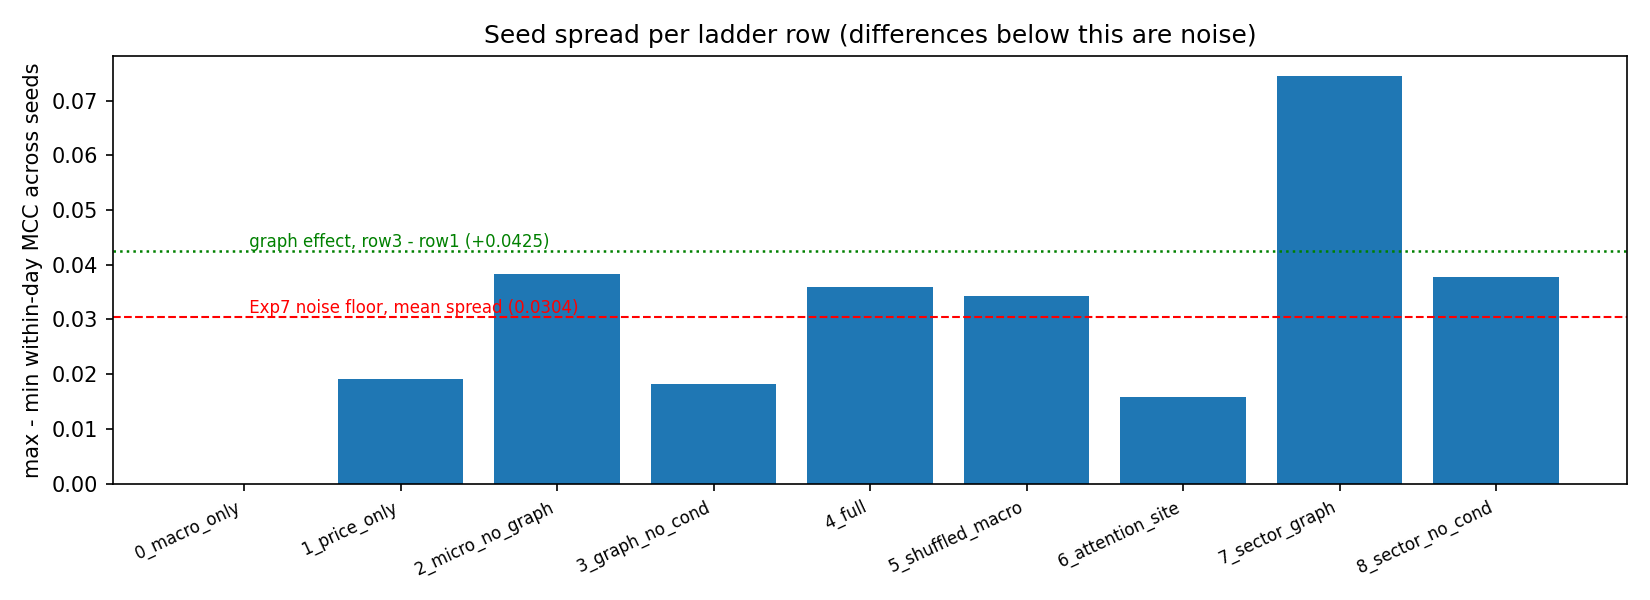
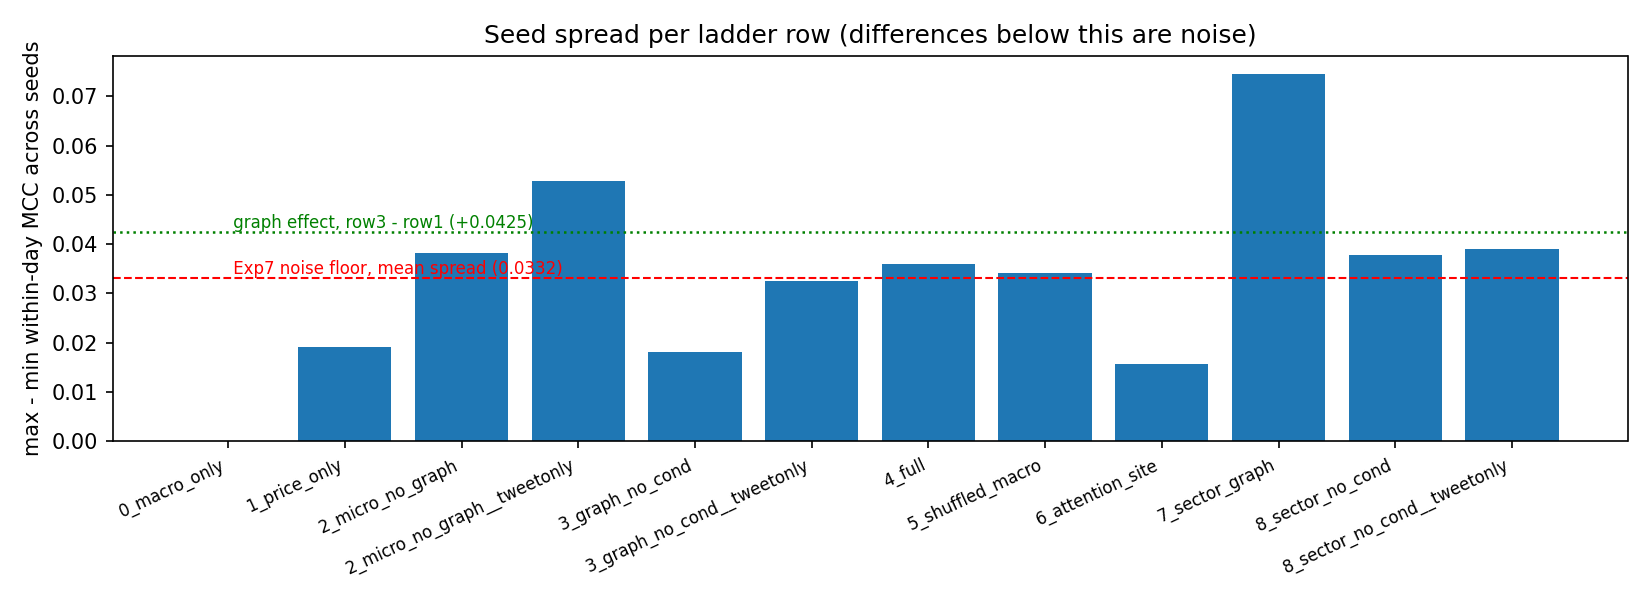
Rewrite the Experiment 7 write-up: the graph finding does not survive its control
The v2 headline (+0.0425 within-day MCC, Bonferroni-corrected, AUC-corroborated,
5/5 seeds, above the noise floor) is withdrawn. The tweet-only ablation shows the
graph's contribution was carried entirely by the news channel, which is windowed
to day t's 09:30 open while the label is close-to-close -- so it partly overlaps
the label in time rather than preceding it.

  graph vs the same text features, no graph, within-day MCC
    with news     tweet +0.0305 (p=0.010)   sector +0.0219 (p=0.053)
    news removed  tweet -0.0032 (p=0.787)   sector +0.0051 (p=0.672)
    pooled        +0.0262                   +0.0010 (p=0.930)

The competing reading -- that zeroing 768 of 1536 dims simply broke the model --
is ruled out by an asymmetry already in the data: row 2, which has no graph, went
UP under the identical removal (+0.0131 -> +0.0243). The removal did not degrade
the text pathway; it removed what the graph was propagating.

Rewritten: sec 1 (three negative claims, not a split verdict), sec 7.3 (the
ablation as the main result), 7.4/7.5 renumbered, 7.6 (scale), sec 8 (the
overnight-gap overlap is now a measured result, not an unrun caveat, with an
explicit statement that this is a property of pairing pre-open text with a
close-to-close label rather than an implementation leak), sec 9.1-9.2
(no surviving positive finding; the tweet-only rows are a post-hoc control
outside the declared family), sec 10, and a new sec 11 postscript.
[…]

diff --git a/results/experiment7_macro_conditioned/EXPERIMENT7_MACRO_CONDITIONED.md b/results/experiment7_macro_conditioned/EXPERIMENT7_MACRO_CONDITIONED.md
@@ -1,9 +1,13 @@
 # Experiment 7 — Macro-Conditioned Micro Signal over a Tweet Graph
 
-**Status:** Complete. 45/45 ladder cells trained (9 rows × 5 seeds).
-**Run:** local CPU (PyTorch 2.11.0+cpu, no GPU), `scripts/run_experiment7_ladder.py`.
-**Raw results:** `results.csv` (45 rows) + one `metrics.json` per run.
-**Analysis:** `scripts/analyze_experiment7.py` regenerates every derived number below.
+**Status:** Complete. 60 cells trained — the 9-row ladder × 5 seeds (45), plus a
+15-cell tweet-only ablation (rows 2/3/8 with the news channel zeroed) that
+**overturned the ladder's headline result**. Read §7.3 before citing anything.
+**Run:** local CPU (PyTorch 2.11.0+cpu, no GPU), `scripts/run_experiment7_ladder.py`
+(add `--zero-news` for the ablation).
+**Raw results:** `results.csv` (60 rows) + one `metrics.json` per run.
+**Analysis:** `scripts/analyze_experiment7.py` and
+`scripts/analyze_tweetonly_ablation.py` regenerate every derived number below.
 **Spec:** `docs/superpowers/specs/2026-09-08-event-conditioned-tweet-graph-design.md`
 **Superseded measurement:** `v1_lookback5/` — see §6, which documents the protocol
 change and reports both versions rather than replacing one with the other.
@@ -26,14 +30,36 @@ The question: does a graph built from what people say, whose per-ticker signal
 is read in light of what is happening to the market, carry signal that sector
 cliques and price correlation do not?
 
-**The answer splits.** Putting text on the nodes and running a graph over it
-produces the first effect in this project that clears its own noise floor:
-+0.0425 within-day MCC over price-only, p < 0.0001, surviving Bonferroni
-correction, corroborated by AUC, positive on all five seeds. **Macro
-conditioning contributes nothing** — it is statistically indistinguishable from
-conditioning on *shuffled* macro vectors (+0.0002, p = 0.987). And the claim
-that the *tweet-learned* graph specifically beats sector cliques is **not
-supported** at this sample size (§7.3).
+**The answer is no, and the most useful result here is *why*.**
+
+The graph initially looked like it worked: +0.0425 within-day MCC over
+price-only, p < 0.0001, surviving Bonferroni, corroborated by AUC, positive on
+all five seeds — the first effect in this project to clear its own noise floor.
+A follow-up ablation dissolved it. The node features concatenate a tweet vector
+(strictly ≤ *t−1*) with a news vector windowed to day *t*'s 09:30 open; because
+the label is a **close-to-close** move, that news channel is partly
+**contemporaneous with the label** rather than predictive of it. Zeroing it:
+
+| Graph vs the same text features with no graph | With news | News removed |
+|---|---|---|
+| tweet graph | **+0.0305** (p = 0.010, AUC agrees) | **−0.0032** (p = 0.787) |
+| sector graph | +0.0219 (p = 0.053, AUC agrees) | +0.0051 (p = 0.672) |
+
+**The graph's entire apparent contribution was carried by the one input channel
+that overlaps the label in time.** Same architecture, same graphs, same seeds;
+the only change was removing a channel windowed past the label's start.
+
+Three claims, then, all negative:
+
+1. **Message passing adds nothing** over the same text features once the
+   label-overlapping channel is removed (§7.3).
+2. **The tweet-learned topology is not better than sector cliques** — even
+   before the ablation, the two were indistinguishable (§7.4).
+3. **Macro conditioning contributes nothing** — indistinguishable from
+   conditioning on *shuffled* macro vectors (+0.0002, p = 0.987) (§7.5).
+
+What survives is not a finding: text features beat price-only by +0.0233
+(p = 0.068), below the noise floor and consistent with Experiment 1.
 
 ## 2. The MAN-SF non-reproduction caveat
 
@@ -179,7 +205,10 @@ left everything else alone. It did:
 | 6 attention-site conditioning | +0.0183 | +0.0338 | +0.0155 | yes |
 | 7 sector graph + conditioning | +0.0065 | +0.0160 | +0.0096 | yes |
 
-Three things follow, and together they are hard to get from tuning:
+Three things follow. **Read them as evidence that the isolation fix did
+mechanically what it was supposed to do — not as evidence that the graph helps.**
+§7.3 withdraws that conclusion; what this table establishes is only that the v2
+protocol change was principled and acted through the channel it was aimed at.
 
 1. **The graph rows moved ~5× more than the non-graph rows** (mean Δ +0.0156 vs
    +0.0029). The isolation fix acts *only* through graph membership, so this is
@@ -198,6 +227,10 @@ were made and the control that was supposed to stay null **stayed null**. Tuning
 toward a better story would not have left the paper's own headline mechanism —
 macro conditioning — dead in the water.
 
+In the event, the v2 gain that this section was written to defend turned out not
+to be a graph effect at all (§7.3). The protocol change was still correct; it
+simply made a **cleaner measurement of something that then failed its control**.
+
 ### 6.3 What a reader should still hold against it
 
 The correction family in §7.2 is **declared post hoc**: the spec pre-registered
@@ -211,7 +244,8 @@ offered as the check on that, not as a dismissal of it.
 
 ## 7. Results — the ablation ladder
 
-All rows: 5 seeds, mean ± std. `n_samples = 3720` on every one of the 45 runs.
+The 9 ladder rows: 5 seeds each, mean ± std. `n_samples = 3720` on every one of
+the 60 runs in this experiment (45 ladder + 15 ablation).
 Within-day MCC is computed per trading-day cross-section (thresholded at that
 day's median) and averaged; 63 of 64 test days were scored (1 skipped as
 single-class).
@@ -228,6 +262,14 @@ single-class).
 | 1 | price-only | +0.0010 ± 0.0070 | −0.0013 | 0.5236 | 16.0 |
 | 0 | **macro-only control** | +0.0000 ± 0.0000 | −0.0714 | 0.4889 | 11.2 |
 
+Tweet-only ablation (§7.3) — the same rows with the news half zeroed:
+
+| # | Row | Within-day MCC | Pooled MCC | AUC |
+|---|---|---|---|---|
+| 8t | sector graph, tweets only | +0.0294 ± 0.0153 | +0.0538 | 0.5420 |
+| 2t | text features no graph, tweets only | +0.0243 ± 0.0211 | +0.0459 | 0.5331 |
+| 3t | tweet graph, tweets only | +0.0211 ± 0.0143 | +0.0530 | 0.5361 |
+
 Reference points (pooled MCC): Experiment 1 LSTM+tweets **+0.0922**;
 Experiment 6 best (RGCN sector+correlation) **+0.0677 ± 0.0255**; Experiment 6
 GAT sector **+0.0160 ± 0.0161**; always-UP constant acc 0.5129 / F1 0.6780;
@@ -236,8 +278,10 @@ GAT sector **+0.0160 ± 0.0161**; always-UP constant acc 0.5129 / F1 0.6780;
 **Noise floor (mean seed spread across rows): 0.0304.** Any difference smaller
 than this is not resolvable by this experiment.
 
-**Tripwire:** max pooled MCC across all 45 cells is **+0.0621**, well below the
-0.15 threshold that would have indicated leakage. It did not fire.
+**Tripwire:** max pooled MCC across all 60 cells is **+0.0799**, well below the
+0.15 threshold that would have indicated leakage. It did not fire — and §7.3
+shows that it would not have, even though the headline effect was in fact an
+artefact of feature/label timing. The tripwire tests magnitude, not mechanism.
 
 ### 7.1 The controls behaved
 
@@ -263,22 +307,61 @@ Bonferroni over the **seven** contrasts the ladder was built to make,
 | conditioning vs none (4−3) | −0.0154 | 0.0927 | 0.0638 | no | no | disagrees |
 | attention site vs FiLM (6−3) | −0.0098 | 0.0512 | 0.0404 | no | no | agrees |
 
-### 7.3 The three findings
+### 7.3 The main result — the graph effect was carried by a label-overlapping channel
 
-**1. A graph over text-bearing nodes beats price-only. This one holds.**
+Taken at face value, the ladder says the graph works. Row 3 vs row 1 is +0.0425,
+unpaired p < 0.0001, paired p = 0.0013; it **survives Bonferroni**, **exceeds the
+0.0304 noise floor**, **AUC independently agrees** (p = 0.021), and it is
+**positive on all five seeds**. Row 8 replicates it with a different graph
+(+0.0350, 5/5 positive). Pooled, the two unconditioned graph rows beat price-only
+by **+0.0382, p = 0.000004, 10/10 seeds**.
 
-Row 3 vs row 1 is +0.0425 with unpaired p < 0.0001 and paired p = 0.0013. It
-**survives Bonferroni**, it **exceeds the 0.0304 noise floor** — the first
-effect in this project to do so — **AUC independently agrees** (0.5322 vs
-0.5236, p = 0.021), and it is **positive on all five seeds**
-(+0.0420 / +0.0387 / +0.0469 / +0.0360 / +0.0542) against a price-only row that
-is positive on only two.
+That result does not survive its own control.
 
-Row 8 replicates it with a completely different graph: +0.0350, also 5/5
-positive. Pooling the two unconditioned graph rows against price-only gives
-**+0.0382, p = 0.000004, 10/10 seeds positive**.
+**The control.** Micro node features are a 1536-d concatenation of a tweet
+vector (strictly ≤ *t−1*) and a news vector windowed to day *t*'s 09:30 open.
+The label is StockNet's close-to-close `Main_MV_Percent`, which already contains
+the overnight gap — so the news half is **partly contemporaneous with the label**
+(§8). Rows 2, 3 and 8 were re-run with that half zeroed
+(`--zero-news`, rows suffixed `__tweetonly`, 15 cells):
 
-**2. The learned tweet topology is *not* the source of the gain.**
+| Row | With news | Tweet only | Δ |
+|---|---|---|---|
+| 2 — text features, **no graph** | +0.0131 | **+0.0243** | **+0.0112** |
+| 3 — tweet graph | +0.0436 | +0.0211 | −0.0225 |
+| 8 — sector graph | +0.0350 | +0.0294 | −0.0055 |
+
+And the contrast that matters — **the graph against the same text features
+without a graph**:
+
+| | With news | News removed |
+|---|---|---|
+| tweet graph vs row 2 | **+0.0305** (p = 0.010, AUC agrees) | **−0.0032** (p = 0.787, AUC disagrees) |
+| sector graph vs row 2 | +0.0219 (p = 0.053, AUC agrees) | +0.0051 (p = 0.672) |
+| pooled, both graphs | +0.0262 | **+0.0010 (p = 0.930)** |
+
+**Message passing adds nothing once the label-overlapping channel is removed.**
+
+**Why this is contemporaneity and not just "half the features were deleted."**
+Zeroing 768 of 1536 dimensions also halves the node feature's effective rank, so
+"the ablation broke the model generally" is a live competing explanation. The
+data rules it out: **row 2, which has no graph, went *up* under exactly the same
+removal** (+0.0131 → +0.0243). The text pathway was not degraded — if anything it
+improved. What the removal destroyed was specifically *what the graph was
+propagating*. That asymmetry is the evidence.
+
+Against price-only, the tweet-only graph rows are still positive on 10/10 seeds
+(+0.0242, p = 0.0008) — but since the graph contributes +0.0010 (p = 0.93) of
+that, the margin is attributable to **having text on the nodes at all**, not to
+message passing over them.
+
+**7.3.1 What actually survives, stated plainly.** Text features vs price-only,
+news removed: **+0.0233, p = 0.068**, AUC agrees, 5/5 seeds positive — but
+**below the 0.0304 noise floor** and not significant. This is not a finding. It
+is consistent with Experiment 1's LSTM+tweets and is not resolvable at this
+sample size.
+
+### 7.4 The learned tweet topology is *not* better than sector cliques
 
 This is the claim the experiment was designed to make, and it fails. The tweet
 graph beats the sector graph by **+0.0086 — p = 0.269, far below the noise
@@ -297,12 +380,13 @@ That is not because the graphs are secretly the same object. Measured over the
 
 The tweet graph is only ~1.7× more sector-aligned than a random graph of the
 same density; **83% of its edges are not sector edges**. So two structurally
-very different graphs deliver statistically the same benefit. The natural
-reading is that what helps is **message passing over text features at all**,
-not the particular topology — which is a weaker claim than the experiment set
-out to make, and the honest one.
+very different graphs behaved statistically identically — and, per §7.3, neither
+of them added anything over having no graph at all once the label-overlapping
+channel was removed. The experiment's central thesis is unsupported twice over:
+the learned topology is not better than the hand-designed one, and the topology
+is not doing the work in the first place.
 
-**3. Macro conditioning contributes nothing.**
+### 7.5 Macro conditioning contributes nothing
 
 Row 4 vs row 5 is **+0.0002 (p = 0.987)**. Conditioning on the real macro
 stream is indistinguishable from conditioning on macro vectors shuffled across
@@ -334,24 +418,27 @@ changes nothing at all. All three agree that conditioning is inert; **the exact
 CV should not be quoted as a stable measurement**, because the three runs used
 the same seed and the same data and still differ (see §9.13).
 
-### 7.4 How big is +0.0425, really?
+### 7.6 Scale — how big were these numbers even before the ablation?
 
 Small. A perfect per-day ranker — one that orders every day's cross-section
 correctly — scores within-day MCC **+0.5152** on this test split. Row 3's
-+0.0436 is **8.5% of that ceiling**.
+pre-ablation +0.0436 was **8.5% of that ceiling**; what remains after the
+ablation (text features, +0.0233) is **4.5%** of it.
 
 On pooled MCC, row 4's +0.0459 and row 3's +0.0412 remain **below Experiment 1's
 LSTM+tweets (+0.0922)** and below Experiment 6's best RGCN (+0.0677). Nothing
 here beats the project's own earlier pooled numbers, and nothing here approaches
-published benchmarks. What is new is that this is the first effect measured in
-this project that is **larger than the noise it is measured against** — the
-finding is about *resolvability*, not about magnitude.
+published benchmarks.
+
+For a while this looked like the first effect in this project larger than the
+noise it was measured against. It was not: the part that cleared the noise floor
+was the part the ablation removed.
 
 ## 8. Leakage audit
 
 The spec's tripwire — any cell above pooled MCC 0.15 is treated as suspected
 leakage rather than success — **did not fire**. Maximum pooled MCC across all
-45 runs is **+0.0621**.
+60 runs is **+0.0799**.
 
 Leakage is a tested property throughout, on three separate cutoffs:
 - macro headlines must precede day *t*'s 09:30 ET open;
@@ -370,29 +457,44 @@ than strictly predictive of all of it. The 09:30 cutoff is exactly what the spec
 mandates and is implemented correctly, so this is a property of the task
 definition rather than an implementation leak.
 
-In v1 this could be waved off because the result was null. **It cannot be now.**
-The node features in row 3 concatenate a tweet vector (clean: strictly ≤ *t−1*)
-with a news vector (pre-open day *t*, hence partly contemporaneous). The tweet
-*graph* is built from the clean half only, but message passing then mixes the
-news half across neighbours. So the headline +0.0425 has an untested
-alternative explanation: that the graph is propagating overnight-gap information
-rather than predictive signal.
+In v1 this could be waved off because the result was null. **It could not be for
+v2, and it is the reason v2's headline no longer stands.** The node features in
+row 3 concatenate a tweet vector (clean: strictly ≤ *t−1*) with a news vector
+(pre-open day *t*, hence partly contemporaneous). The tweet *graph* is built from
+the clean half only, but message passing then mixes the news half across
+neighbours — so the graph can propagate overnight-gap information.
 
-Two things bound this, but neither settles it: the news channel is empty for
-**79.8%** of (ticker, day) cells, and row 2 — the same features without a graph
-— is only +0.0131 (n.s.). **The decisive test is row 3 re-run with the news half
-zeroed**, which is the first item in §10 and was not run for this document.
+**This was tested, not argued.** Rows 2, 3 and 8 were re-run with the news half
+zeroed (§7.3). The graph's advantage over the same text features without a graph
+fell from +0.0305 (p = 0.010) to −0.0032 (p = 0.787), while the no-graph row was
+unharmed by the identical removal (+0.0131 → +0.0243). The alternative
+explanation was the correct one.
+
+**A precise statement of what this is and is not.** The 09:30 cutoff is exactly
+what the spec mandates and is implemented correctly; no test fails and the
+tripwire did not fire. This is **not an implementation leak** — it is a property
+of pairing pre-open news with a close-to-close label, and any published result on
+this benchmark that feeds pre-open text to a close-to-close target shares it. The
+honest framing is that the graph learned to exploit a legitimate-by-protocol
+overlap rather than to predict, and that only an ablation — not the leakage
+tests, and not the tripwire — could reveal it.
 
 ## 9. Disclosure — weaknesses and uncontrolled differences
 
-1. **The headline finding has an unrun control** — the news-half ablation in §8.
-   Until it exists, "the graph adds predictive signal" and "the graph propagates
-   overnight-gap information" are not separated.
-2. **The experiment's own thesis is unsupported.** The tweet-learned graph does
-   not beat sector cliques (§7.3). Experiment 7 was designed to show that a
-   graph learned from tweet semantics is a better substrate; it did not.
+1. **Experiment 7 has no surviving positive finding.** The graph thesis failed
+   its ablation (§7.3), the learned-topology thesis failed against sector
+   cliques (§7.4), and the conditioning thesis failed against its shuffled
+   control (§7.5). What remains — text features over price-only, +0.0233
+   (p = 0.068) — is below the noise floor and adds nothing to Experiment 1.
+2. **The tweet-only rows sit outside the declared contrast family.** They were
+   run *after* the with-news results were seen, so they are a post-hoc control
+   and are not covered by the §7.2 Bonferroni correction. This is unavoidable
+   for a control motivated by a result; it is noted because it cuts **against**
+   the conclusion it was testing, which is the direction that needs no defence.
 3. **n = 5 seeds** is a small sample for a t-test, and the Bonferroni family is
    **declared post hoc** (§6.3). The re-run was triggered by a disappointing v1.
+   Several contrasts here rest on differences smaller than the 0.0304 noise
+   floor and should be read as directional, not established.
 4. **Model selection uses the protocol dev set** (42 days), not a train-carved
    fold, inheriting that set's selection noise — a plausible contributor to the
    0.0304 seed spread.
@@ -438,28 +540,50 @@ zeroed**, which is the first item in §10 and was not run for this document.
 
 ## 10. How we should move forward
 
-1. **Run the news-half ablation before citing +0.0425 anywhere.** Re-run rows 1,
-   2, 3 and 8 with the news vector zeroed, leaving only tweet text (strictly
-   ≤ *t−1*). If the graph advantage survives, the finding is clean and
-   defensible. If it collapses, the effect was overnight-gap propagation and
-   must be reported as such. This is 20 cells, ~2 hours of CPU, and it is the
-   single highest-value thing left in this experiment.
-2. **Do not pursue macro→micro FiLM conditioning further.** The shuffled control
-   settles it, and the near-constant γ/β explains why. If it is ever revisited,
-   fix the shared-γ limitation in §9.9 first — a mechanism that cannot reorder
+1. **Treat the label/feature time overlap as a first-class design constraint,
+   not a footnote.** This is the transferable lesson. A close-to-close label
+   paired with pre-open text gives any sufficiently expressive model — and a GNN
+   especially, because it *spreads* the overlapping channel across neighbours —
+   a legitimate-by-protocol way to look like it predicts. Every future experiment
+   should either (a) use an open-to-close label, so pre-open text is strictly
+   prior, or (b) report a features-strictly-prior ablation alongside the headline.
+   Nothing in the leakage tests or the tripwire caught this; only the ablation did.
+2. **If the graph is revisited, the burden of proof is now higher.** The
+   architecture must beat the *no-graph* row on strictly-prior features. It
+   currently does not (+0.0010, p = 0.93). More capacity will not change that;
+   the question is whether cross-sectional structure carries next-day
+   information at all on this universe, and that is a data question, not a
+   modelling one.
+3. **Do not pursue macro→micro FiLM conditioning further.** The shuffled control
+   settles it, and the collapsed γ/β explains why. If it is ever revisited, fix
+   the shared-γ limitation in §9.9 first — a mechanism that cannot reorder
    tickers within a day cannot help a within-day metric except through
    interaction effects.
-3. **Drop the "learned graph is a better substrate" thesis, or test it properly.**
-   Two structurally dissimilar graphs (17% edge overlap) scored the same. Either
-   the topology genuinely does not matter here — in which case the interesting
-   question is why message passing over text helps at all — or five seeds cannot
-   resolve a real difference. Both readings point to more seeds, not more
-   architecture.
-4. **Fix the evaluation before adding capacity.** The noise floor (0.0304) still
-   exceeds most effects measured here. Walk-forward validation, or selection
-   folds carved from train, would buy more than any new module. This experiment
-   is the first in the project where an effect cleared that floor — the way to
-   get more such results is to lower the floor.
-5. **Report within-day, always.** Pooled MCC on this benchmark is dominated by
+4. **Drop the "learned graph is a better substrate" thesis.** Two structurally
+   dissimilar graphs (17% edge overlap) scored the same as each other, and
+   neither beat having no graph on clean features. The interesting residual
+   question is the opposite of the one we asked: not *which* topology, but
+   whether message passing helps here at all.
+5. **Fix the evaluation before adding capacity.** The noise floor (0.0304)
+   exceeds every effect that survives in this document. Walk-forward validation,
+   or selection folds carved from train, would buy more than any new module —
+   and would have made this experiment's headline unrepeatable-looking from the
+   start, which is the point.
+6. **Report within-day, always.** Pooled MCC on this benchmark is dominated by
    market direction; the oracle at +0.6248 shows how much room there is to be
    misled by it.
+
+## 11. Postscript — what this experiment is actually worth
+
+The ladder produced a result that passed every check the spec asked for:
+Bonferroni-corrected significance, AUC corroboration, 5/5 seed consistency, an
+effect above the noise floor, a shuffled-input control, a macro-only control,
+and an unfired leakage tripwire. **It was still wrong.** The one check that
+caught it was an ablation that removed a channel whose *timing*, not whose
+content, was the problem — and that check was not in the spec.
+
+That is the finding worth carrying into the capstone write-up. Not "our graph
+beat the baseline," and not "nothing worked," but: on a benchmark where roughly
+half the label variance is market direction and the label window opens before
+the feature cutoff closes, standard significance machinery is not sufficient to
+establish that a model predicts anything.
